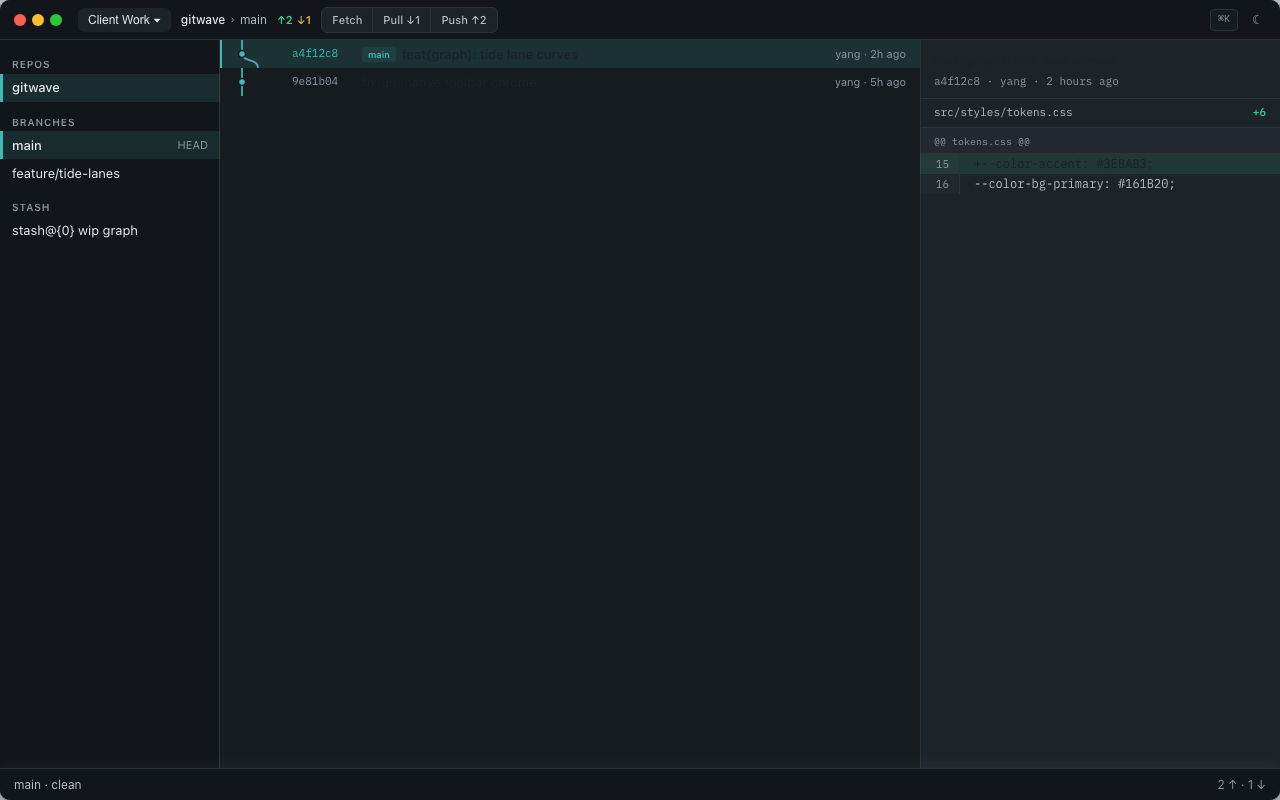
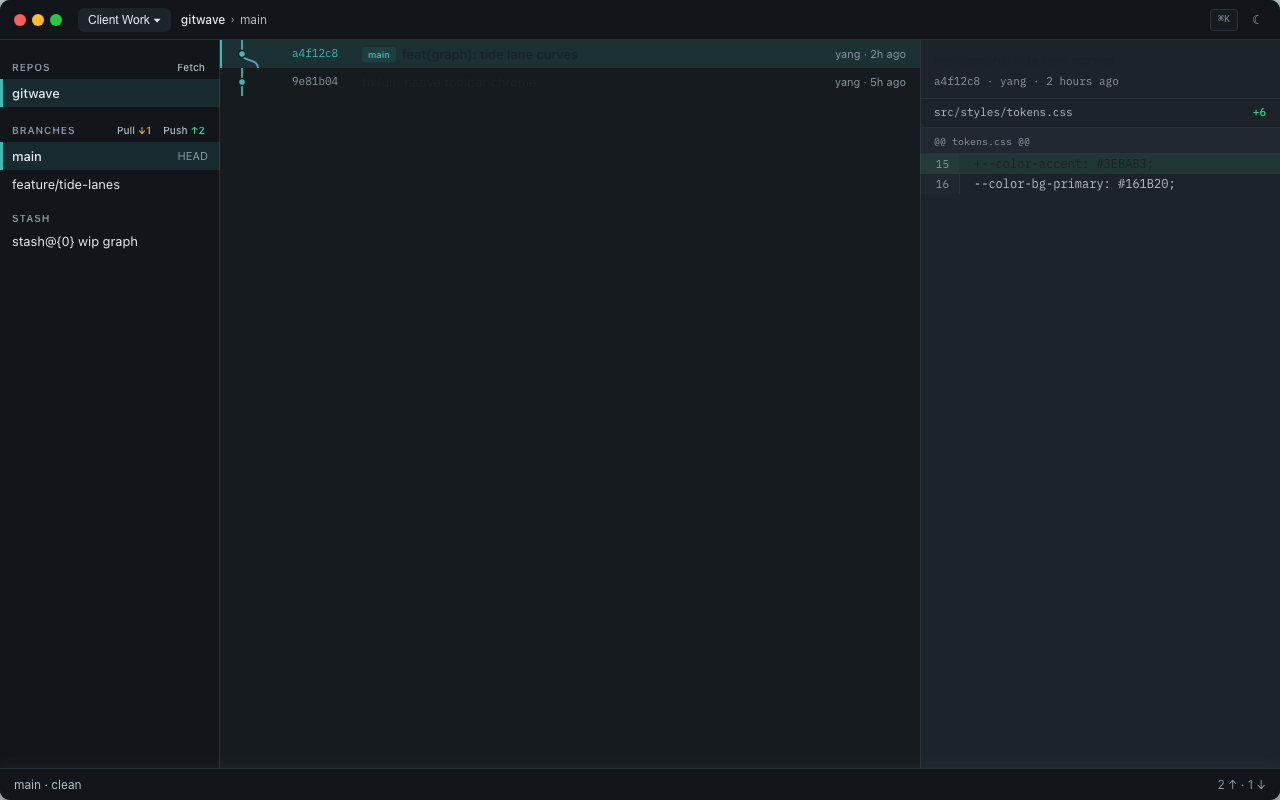
docs(design): move sync actions to sidebar section headers
Place Fetch on REPOS and Pull/Push on BRANCHES to match repository-
versus-branch scope; update v2 mockups and layout specs accordingly.

Changed region(s): [[0.0, 0.0625, 0.125, 0.3125], [0.2188, 0.0, 0.375, 0.0312], [0.125, 0.1562, 0.1562, 0.1875]]

diff --git a/docs/design/mockups/v2/index.html b/docs/design/mockups/v2/index.html
@@ -222,51 +222,55 @@
         font-size: 10px;
       }
 
-      .sync-stats {
+      /* Section header actions (Fetch / Pull / Push) */
+      .sec-actions {
         display: flex;
-        gap: 4px;
-        font-size: 11px;
+        align-items: center;
+        gap: 2px;
+        margin-left: auto;
+      }
+
+      .sec-act {
+        height: 18px;
+        padding: 0 5px;
+        border: 0;
+        border-radius: 4px;
+        background: transparent;
+        font: 500 10px/1 var(--sans);
+        color: var(--ink-2);
+        cursor: pointer;
+        white-space: nowrap;
+      }
+
+      .sec-act:hover:not(:disabled) {
+        background: color-mix(in srgb, var(--ink) 6%, transparent);
+        color: var(--ink);
+      }
+
+      .sec-act:disabled {
+        opacity: 0.35;
+        cursor: default;
+      }
+
+      .sec-act .up {
+        color: var(--ahead);
         font-weight: 600;
       }
 
-      .sync-stats .up {
-        color: var(--ahead);
-      }
-      .sync-stats .dn {
+      .sec-act .dn {
         color: var(--behind);
+        font-weight: 600;
       }
 
-      /* Segmented sync control */
-      .seg {
-        display: inline-flex;
-        border: 1px solid var(--hair);
-        border-radius: 6px;
-        overflow: hidden;
-        background: var(--elevated);
+      .sec-head {
+        display: flex;
+        align-items: center;
+        gap: 4px;
+        padding: 8px 10px 3px 12px;
       }
 
-      .seg button {
-        height: 24px;
-        padding: 0 10px;
-        border: 0;
-        border-right: 1px solid var(--hair);
-        background: transparent;
-        font: 500 11px/1 var(--sans);
-        color: var(--ink-2);
-        cursor: pointer;
-      }
-
-      .seg button:last-child {
-        border-right: 0;
-      }
-
-      .seg button:hover:not(:disabled) {
-        background: color-mix(in srgb, var(--ink) 5%, transparent);
-      }
-
-      .seg button:disabled {
-        opacity: 0.35;
-        cursor: default;
+      .sec-head .sec-actions {
+        flex-shrink: 0;
       }
 
       .toolbar .right {
@@ -326,13 +330,6 @@
 
       .sec {
         margin-top: 6px;
-      }
-
-      .sec-head {
-        display: flex;
-        align-items: center;
-        justify-content: space-between;
-        padding: 8px 12px 3px;
       }
 
       .sec-label {
@@ -785,7 +782,7 @@
       <button type="button" data-go="dirty" aria-pressed="false">Light · Dirty</button>
       <button type="button" data-go="dark" aria-pressed="false">Dark · History</button>
       <button type="button" data-go="empty" aria-pressed="false">Empty</button>
-      <span class="hint">Source List · Segmented Sync · 材质分层 · Tide Lanes</span>
+      <span class="hint">Source List · Sync 在 REPOS/BRANCHES · 材质分层 · Tide Lanes</span>
     </div>
 
     <div class="stage">
@@ -799,15 +796,6 @@
             <span class="chev">›</span>
             <span>main</span>
           </div>
-          <div class="sync-stats">
-            <span class="up">↑2</span>
-            <span class="dn">↓1</span>
-          </div>
-          <div class="seg">
-            <button type="button">Fetch</button>
-            <button type="button">Pull ↓1</button>
-            <button type="button">Push ↑2</button>
-          </div>
           <div class="right">
             <span class="kbd">⌘K</span>
             <button class="icon-btn" type="button" aria-label="Theme">☀</button>
@@ -819,7 +807,10 @@
             <div class="sec">
               <div class="sec-head">
                 <span class="sec-label">Repos</span>
-                <button class="sec-add" type="button" aria-label="Add repo">+</button>
+                <div class="sec-actions">
+                  <button class="sec-act" type="button">Fetch</button>
+                  <button class="sec-add" type="button" aria-label="Add repo">+</button>
+                </div>
               </div>
               <div class="src-row sel">gitwave <span class="dot"></span></div>
               <div class="src-row">notes</div>
@@ -827,7 +818,11 @@
             <div class="sec">
               <div class="sec-head">
                 <span class="sec-label">Branches</span>
-                <button class="sec-add" type="button">+</button>
+                <div class="sec-actions">
+                  <button class="sec-act" type="button">Pull <span class="dn">↓1</span></button>
+                  <button class="sec-act" type="button">Push <span class="up">↑2</span></button>
+                  <button class="sec-add" type="button">+</button>
+                </div>
               </div>
               <div class="src-row sel">main <span class="trail">HEAD</span></div>
               <div class="src-row">feature/tide-lanes</div>
@@ -952,11 +947,6 @@
             <span class="chev">›</span>
             <span>feature/tide-lanes</span>
           </div>
-          <div class="seg">
-            <button type="button">Fetch</button>
-            <button type="button" disabled>Pull</button>
-            <button type="button" disabled>Push</button>
-          </div>
           <div class="right">
             <span class="kbd">⌘K</span>
             <button class="icon-btn" type="button">☀</button>
@@ -967,13 +957,21 @@
             <div class="sec">
               <div class="sec-head">
                 <span class="sec-label">Repos</span>
-                <button class="sec-add" type="button">+</button>
+                <div class="sec-actions">
+                  <button class="sec-act" type="button">Fetch</button>
+                  <button class="sec-add" type="button">+</button>
+                </div>
               </div>
               <div class="src-row sel">gitwave</div>
             </div>
             <div class="sec">
               <div class="sec-head">
                 <span class="sec-label">Branches</span>
+                <div class="sec-actions">
+                  <button class="sec-act" type="button" disabled>Pull</button>
+                  <button class="sec-act" type="button" disabled>Push</button>
+                  <button class="sec-add" type="button">+</button>
+                </div>
               </div>
               <div class="src-row">main</div>
               <div class="src-row sel">feature/tide-lanes <span class="trail">HEAD</span></div>
@@ -1074,15 +1072,6 @@
             <span class="chev">›</span>
             <span>main</span>
           </div>
-          <div class="sync-stats">
-            <span class="up">↑2</span>
-            <span class="dn">↓1</span>
-          </div>
-          <div class="seg">
-            <button type="button">Fetch</button>
-            <button type="button">Pull ↓1</button>
-            <button type="button">Push ↑2</button>
-          </div>
           <div class="right">
             <span class="kbd">⌘K</span>
             <button class="icon-btn" type="button">☾</button>
@@ -1091,11 +1080,22 @@
         <div class="body">
           <aside class="sidebar">
             <div class="sec">
-              <div class="sec-head"><span class="sec-label">Repos</span></div>
+              <div class="sec-head">
+                <span class="sec-label">Repos</span>
+                <div class="sec-actions">
+                  <button class="sec-act" type="button">Fetch</button>
+                </div>
+              </div>
               <div class="src-row sel">gitwave</div>
             </div>
             <div class="sec">
-              <div class="sec-head"><span class="sec-label">Branches</span></div>
+              <div class="sec-head">
+                <span class="sec-label">Branches</span>
+                <div class="sec-actions">
+                  <button class="sec-act" type="button">Pull <span class="dn">↓1</span></button>
+                  <button class="sec-act" type="button">Push <span class="up">↑2</span></button>
+                </div>
+              </div>
               <div class="src-row sel">main <span class="trail">HEAD</span></div>
               <div class="src-row">feature/tide-lanes</div>
             </div>
@@ -1156,11 +1156,6 @@
         <header class="toolbar">
           <div class="lights" aria-hidden="true"><i></i><i></i><i></i></div>
           <button class="ws-pill muted" type="button">Select workspace ▾</button>
-          <div class="seg">
-            <button type="button" disabled>Fetch</button>
-            <button type="button" disabled>Pull</button>
-            <button type="button" disabled>Push</button>
-          </div>
           <div class="right">
             <span class="kbd">⌘K</span>
             <button class="icon-btn" type="button">☀</button>
@@ -1169,8 +1164,23 @@
         <div class="body">
           <aside class="sidebar">
             <div class="sec">
-              <div class="sec-head"><span class="sec-label">Repos</span></div>
+              <div class="sec-head">
+                <span class="sec-label">Repos</span>
+                <div class="sec-actions">
+                  <button class="sec-act" type="button" disabled>Fetch</button>
+                </div>
+              </div>
               <div class="src-row"><span class="trail" style="margin-left: 0">No repositories yet</span></div>
+            </div>
+            <div class="sec">
+              <div class="sec-head">
+                <span class="sec-label">Branches</span>
+                <div class="sec-actions">
+                  <button class="sec-act" type="button" disabled>Pull</button>
+                  <button class="sec-act" type="button" disabled>Push</button>
+                </div>
+              </div>
+              <div class="src-row"><span class="trail" style="margin-left: 0">Select a repository</span></div>
             </div>
           </aside>
           <section class="graph">

diff --git a/docs/design/00-overview.md b/docs/design/00-overview.md
@@ -59,7 +59,7 @@
 ```
 ┌─────────────────────────────────────────────────────────────────┐
 │  Toolbar (~40px)  动作工具栏，不要品牌站                         │
-│  [WS▾]  repo  main ↑2 ↓1     Fetch Pull Push         ⌘K  ☀/☾ │
+│  [WS▾]  repo › branch                                        ⌘K  ☀/☾ │
 ├────────────┬───────────────────────────────┬────────────────────┤
 │ Sidebar    │  History graph（主角）         │  Inspector         │
 │ (220px)    │  flex                         │  (~360px)          │
@@ -73,8 +73,8 @@
 └─────────────────────────────────────────────────────────────────┘
 ```
 
-- **Toolbar**：Workspace 切换 + 当前 repo / branch + Sync（Fetch/Pull/Push）+ ⌘K + 主题。无居中字标、无版本号、无 Help 图标。SSH 进溢出菜单。
-- **Sidebar（Source List）**：当前 workspace 的 repos + branches + stash / tags / remotes / worktrees。Mist 底，与 Foam 画布有材质差。
+- **Toolbar**：Workspace 切换 + 当前 repo › branch 路径（只读）。无 Sync、无居中字标、无版本号。SSH 进溢出菜单。
+- **Sidebar（Source List）**：repos（含 **Fetch**）+ branches（含 **Pull / Push**）+ stash / tags / remotes / worktrees。Mist 底，与 Foam 画布有材质差。
 - **History graph**：永远是中栏主角，不是 Tab。
 - **Inspector**：选中 commit 或 working-copy 文件的详情 / diff。
 - **Working Copy Bar**：clean 32px / dirty 展开至 ~220px（文件列表从 Changes Tab 收回）。详见 `04-working-copy.md`。
@@ -109,7 +109,7 @@
 | `FileListItem` | 单个文件变更行（M/A/D/? + +/-） | 待建 |
 | `StatusIcon` | 文件 status 字符 + 颜色 | 待建 |
 | `CommitMessageBox` | 多行 message 输入 + AI 按钮 | 待建 |
-| `SyncButtons` | 顶部 Fetch / Pull / Push 三按钮 | 待建 |
+| `SyncButtons` | REPOS 标题栏 Fetch + BRANCHES 标题栏 Pull/Push | 待建 |
 
 详见 `02-components.md` §3 + `04-working-copy.md`。
 

diff --git a/docs/design/mockups/README.md b/docs/design/mockups/README.md
@@ -15,7 +15,7 @@
 
 浏览器打开 `v2/index.html`，顶栏切换四屏。
 
-**v2 核心变化**：Source List 全宽无圆角 · Toolbar Segmented Sync · pane inset shadow 材质分层 · Inspector diff gutter · WC Bar 上阴影。
+**v2 核心变化**：Source List 全宽无圆角 · **Sync 下沉 REPOS/BRANCHES 标题栏** · pane inset shadow 材质分层 · Inspector diff gutter · WC Bar 上阴影。
 
 ## v1（历史参考）
 
